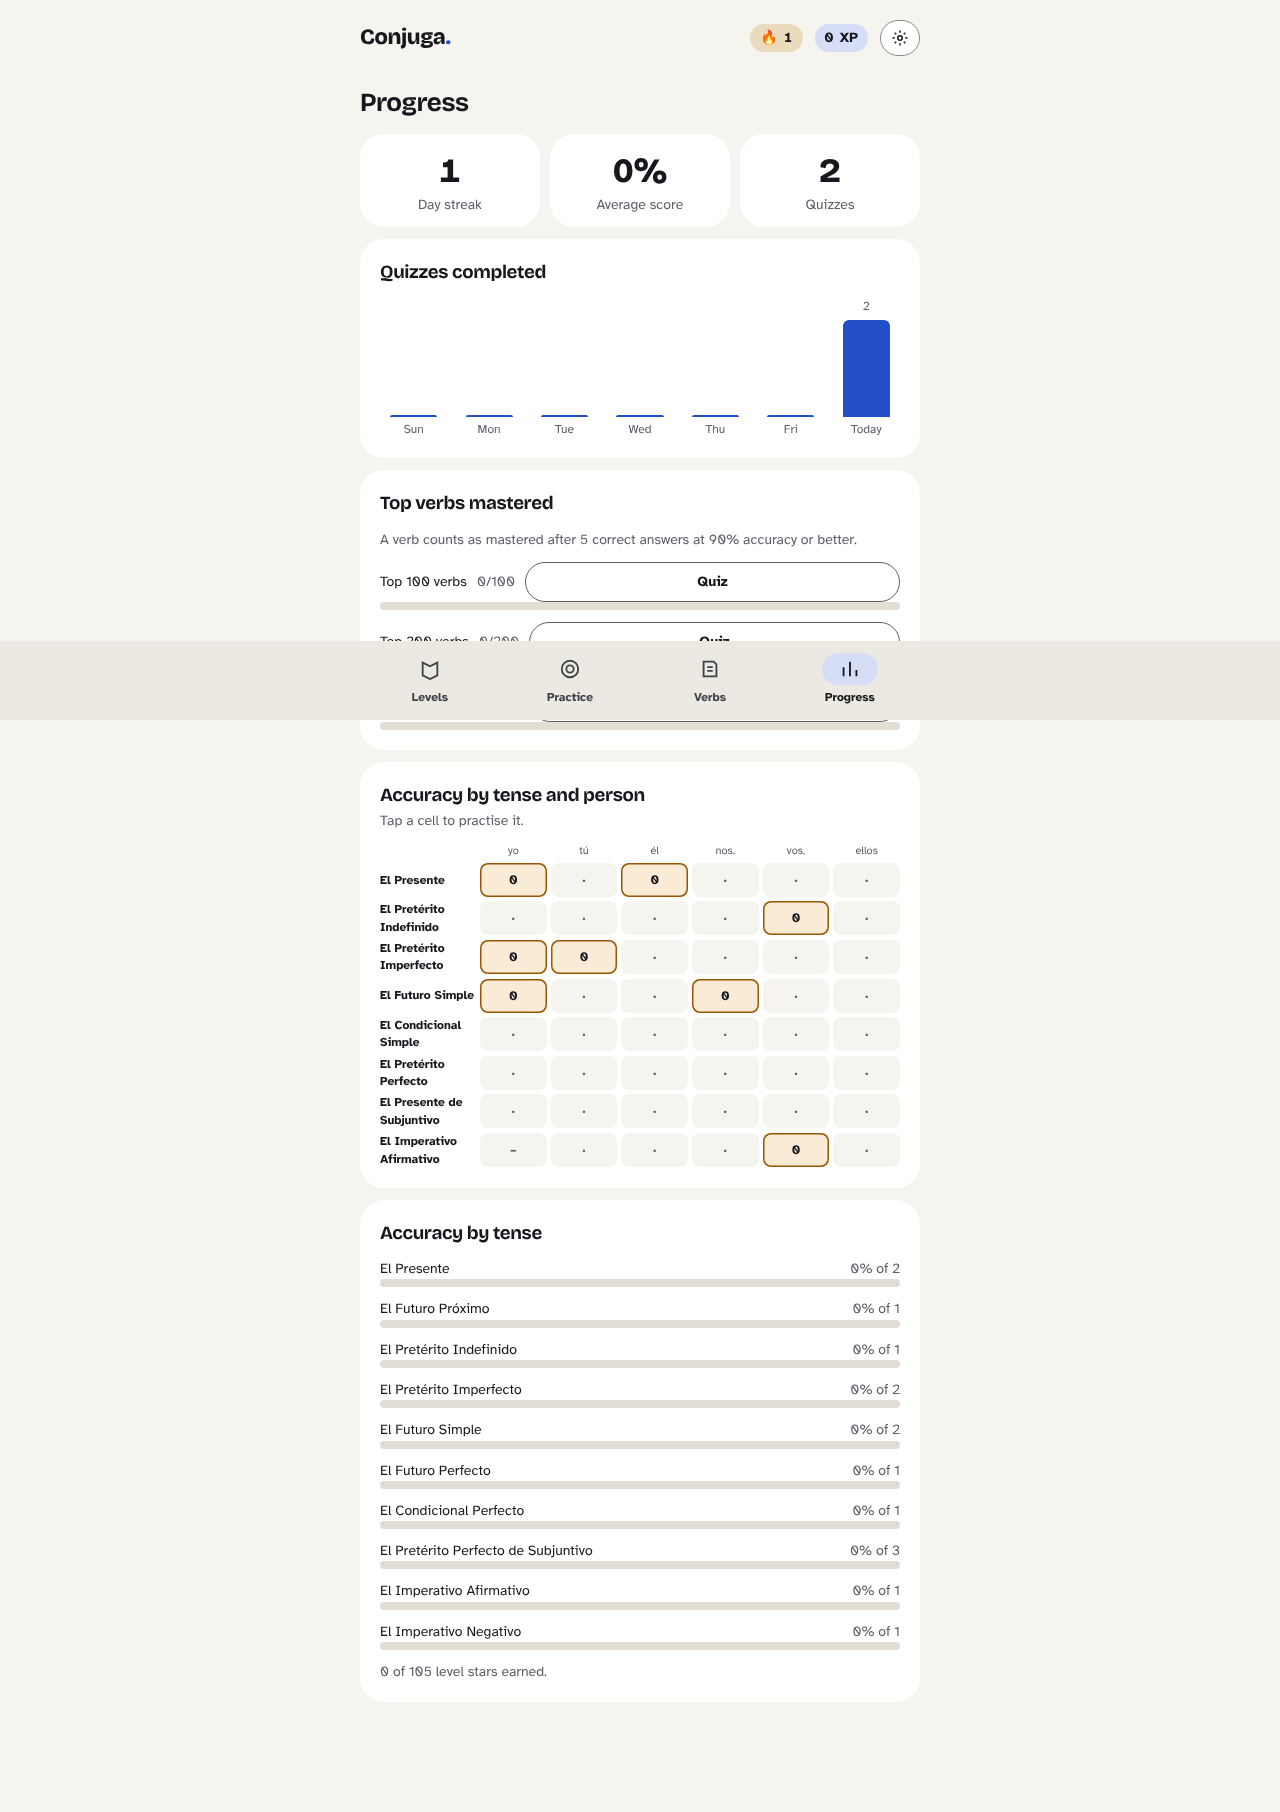
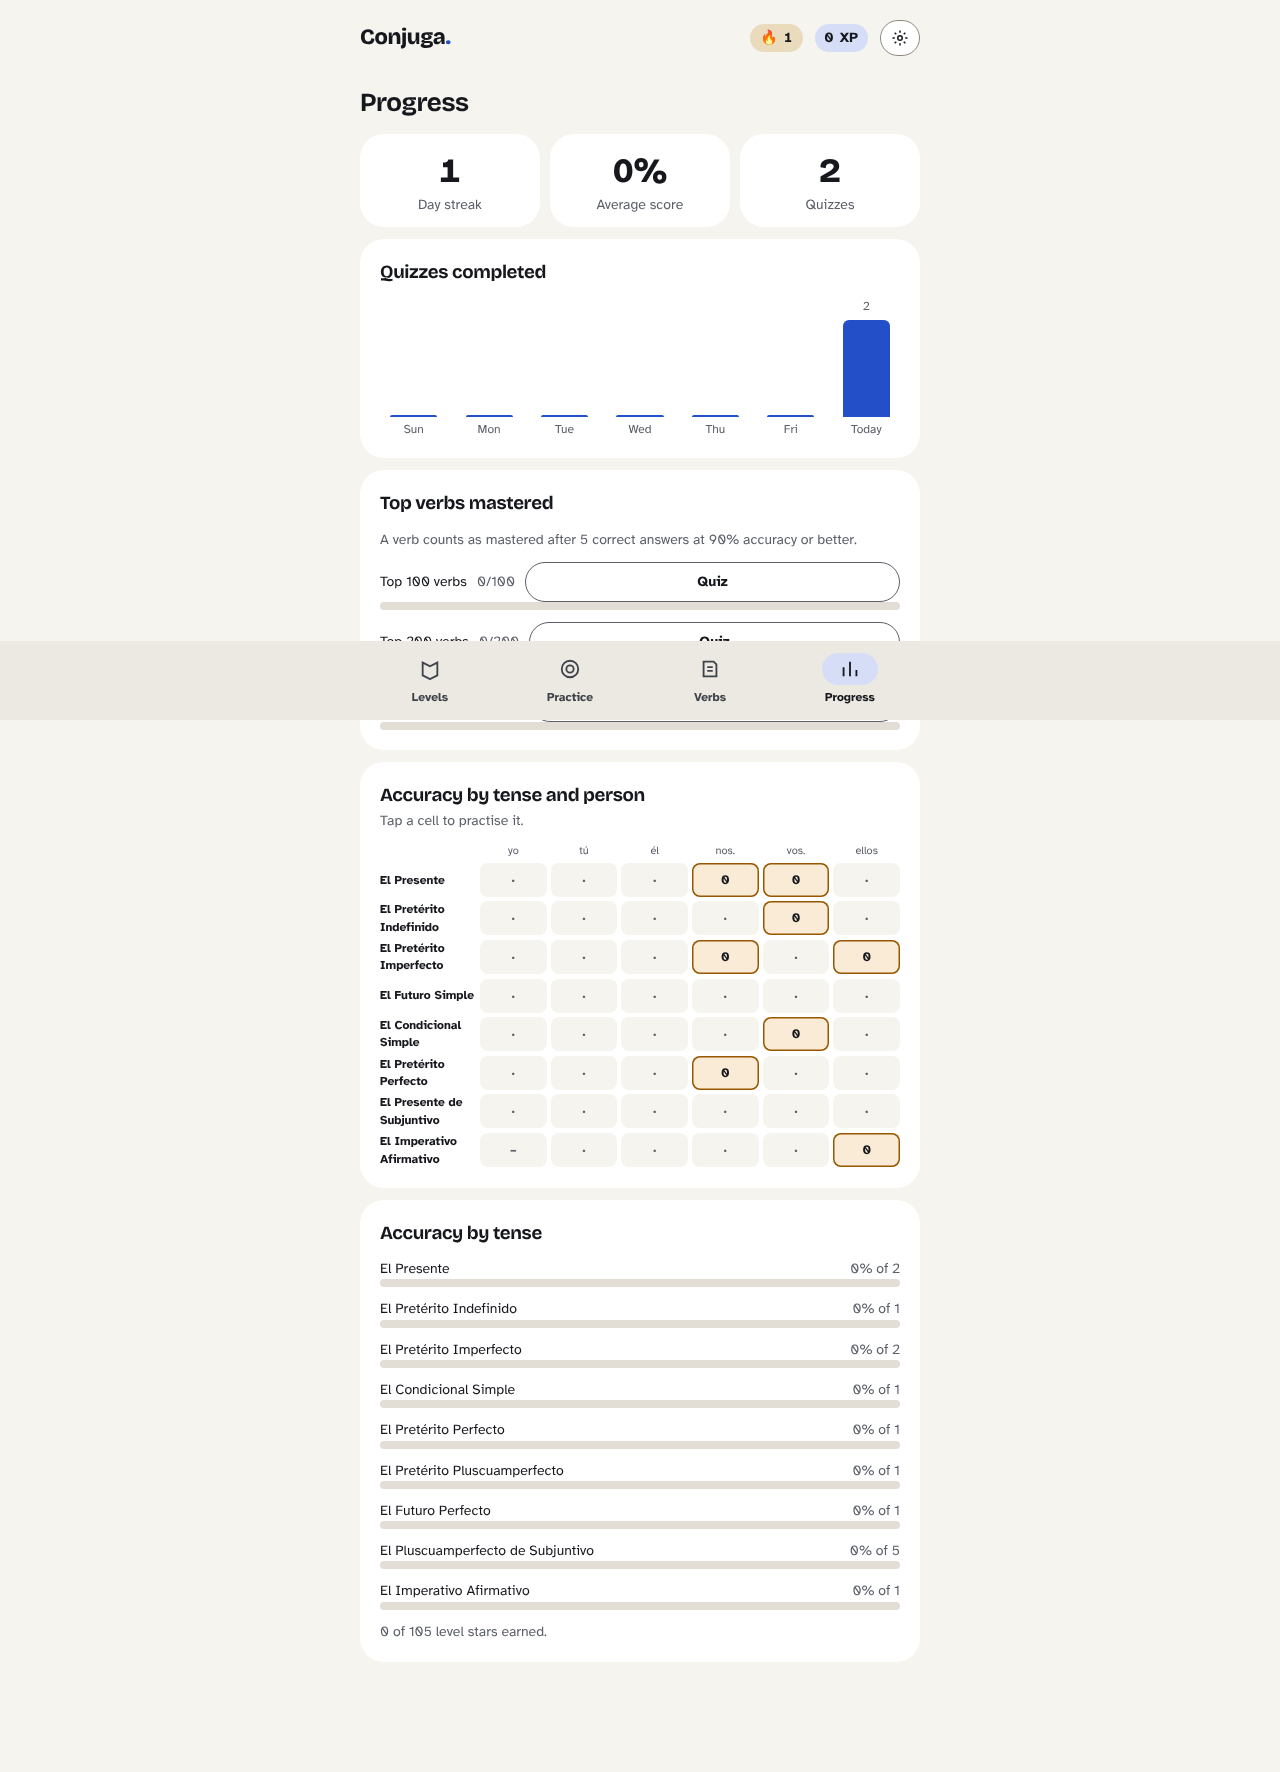
Weight the 5-question sentence set toward common tenses
Present, preterite, imperfect, future, conditional, present perfect, present
subjunctive, near future and affirmative commands are 3x as likely, so about
4 in 5 questions use them. The level-up test still draws evenly.

Claude-Session: https://claude.ai/code/session_01BhddMbGxzfydE1RyiSXTay

diff --git a/conjuga.html b/conjuga.html
@@ -1162,7 +1162,7 @@ const VIEWS={
    document.getElementById('go').onclick=()=>quiz(make(),{title:C.what==='conj'?(C.tenses.length===1?tn(C.tenses[0]):'Custom quiz'):'Meanings',mode:C.how,hideInf:C.what==='conj'&&C.hideInf,hideEn:C.what==='conj'&&C.hideEn});
    document.getElementById('todaySet').onclick=()=>quiz(build(['pret'],VERBS.filter(v=>v.irregular&&!v.refl&&v.rank<=150),5),{title:`${cap(tns('pret'))} irregulars`});
    document.getElementById('vod').onclick=()=>verbSheet(vd);
-   document.getElementById('sent5').onclick=()=>quiz(shuffle(sentPool()).slice(0,5).map(qs_),{title:'Sentences'});
+   document.getElementById('sent5').onclick=()=>quiz(weightedPick(sentPool(),5,s=>COMMON_T.has(s.t)?3:1).map(qs_),{title:'Sentences'});
    document.getElementById('sentTest').onclick=()=>quiz(shuffle(sentPool()).slice(0,10).map(qs_),{title:'Level-up test',pass:8});
    document.getElementById('rev').onclick=()=>quiz(shuffle(S.miss).slice(0,15).map(k=>{const[inf,t,p]=k.split('|');const v=verbBy(inf);return v&&T[t]&&conj(v,t)[+p]?q(v,t,+p):null}).filter(Boolean),{title:'Smart review'});
   };draw();
@@ -2213,6 +2213,13 @@ neg|5|correr|corran|No ___ ustedes, hay tiempo de sobra.|Don't run, there's plen
 `;
 SENT.push(...SENT_RAW.trim().split('\n').map(l=>{const[t,p,v,a,s,en]=l.split('|');return{t,p:+p,v,a,s,en}}));
 const sentPool=()=>SENT.filter(s=>persons().includes(s.p));
+// the quick set leans on everyday tenses (about 4 in 5 questions); the level-up test stays even across all tenses
+const COMMON_T=new Set([...TENSES.map(t=>t.id),'prox','imp']);
+function weightedPick(arr,n,w){ // n distinct items, each drawn with probability proportional to w(item)
+  const pool=arr.map(x=>[x,w(x)]),out=[];
+  while(out.length<n&&pool.length){let r=Math.random()*pool.reduce((s,[,k])=>s+k,0),i=0;while(i<pool.length-1&&(r-=pool[i][1])>0)i++;out.push(pool.splice(i,1)[0][0])}
+  return out;
+}
 const qs_=s=>({kind:'sent',v:verbBy(s.v),t:s.t,p:s.p,ans:s.a,s:s.s,en:s.en,note:s.note});
 
 const isIrregularForm=(v,t,p)=>bare(v,t)[p]!==bare(plainOf(v),t)[p];
